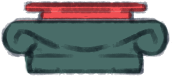
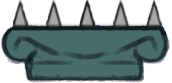
Added Traps again

diff --git a/src/Gameplay/platformLogic.js b/src/Gameplay/platformLogic.js
@@ -67,6 +67,7 @@ export function generatePlatform(platforms, player ,canvas, score) {
     const movingChance = Math.min(0.15, 0.05 + (score / 10000)); // Increases with score
     const breakingChance = Math.min(0.15, 0.05 + (score / 8000));
     const jumppadChance = Math.min(0.05, 0.15 - (score / 8000)); // Decreases with score
+    const trapChance = Math.min(0.05, 0.05 + (score / 10000)); // Increases with score
 
     if (determinePlatformType < movingChance) {
         platformType = 'moving';
@@ -74,6 +75,9 @@ export function generatePlatform(platforms, player ,canvas, score) {
         platformType = 'breaking';
     } else if (determinePlatformType < movingChance + breakingChance + jumppadChance) {
         platformType = 'jumppad';
+    } else if (determinePlatformType < movingChance + breakingChance + jumppadChance + trapChance && trapPlatformCount < maxTrapPlatforms) {
+        platformType = 'trap';
+        incrementTrapPlatformCount();
     } else {
         platformType = 'normal';
     }

diff --git a/src/Elements/platformFactory.js b/src/Elements/platformFactory.js
@@ -13,6 +13,8 @@ export default class PlatformFactory {
                 return new BreakingPlatform(x, y, width, height);
             case 'jumppad':
                 return new JumpPadPlatform(x, y, width, height);
+            case 'trap':
+                return new TrapPlatform(x, y, width, height);
             case 'normal':
             default:
                 return new Platform(x, y, width, height);

diff --git a/src/Elements/jumppadPlatform.js b/src/Elements/jumppadPlatform.js
@@ -5,7 +5,7 @@ export default class JumpPadPlatform extends Platform {
         super(x, y, width, height);
         this.touched = false;
         this.image = new Image();
-        this.image.src = 'src/assets/images/Tiles/TrapTile.png';
+        this.image.src = 'src/assets/images/Tiles/JumpPadTile.png';
         this.type = 'jumppad';
     }
 
